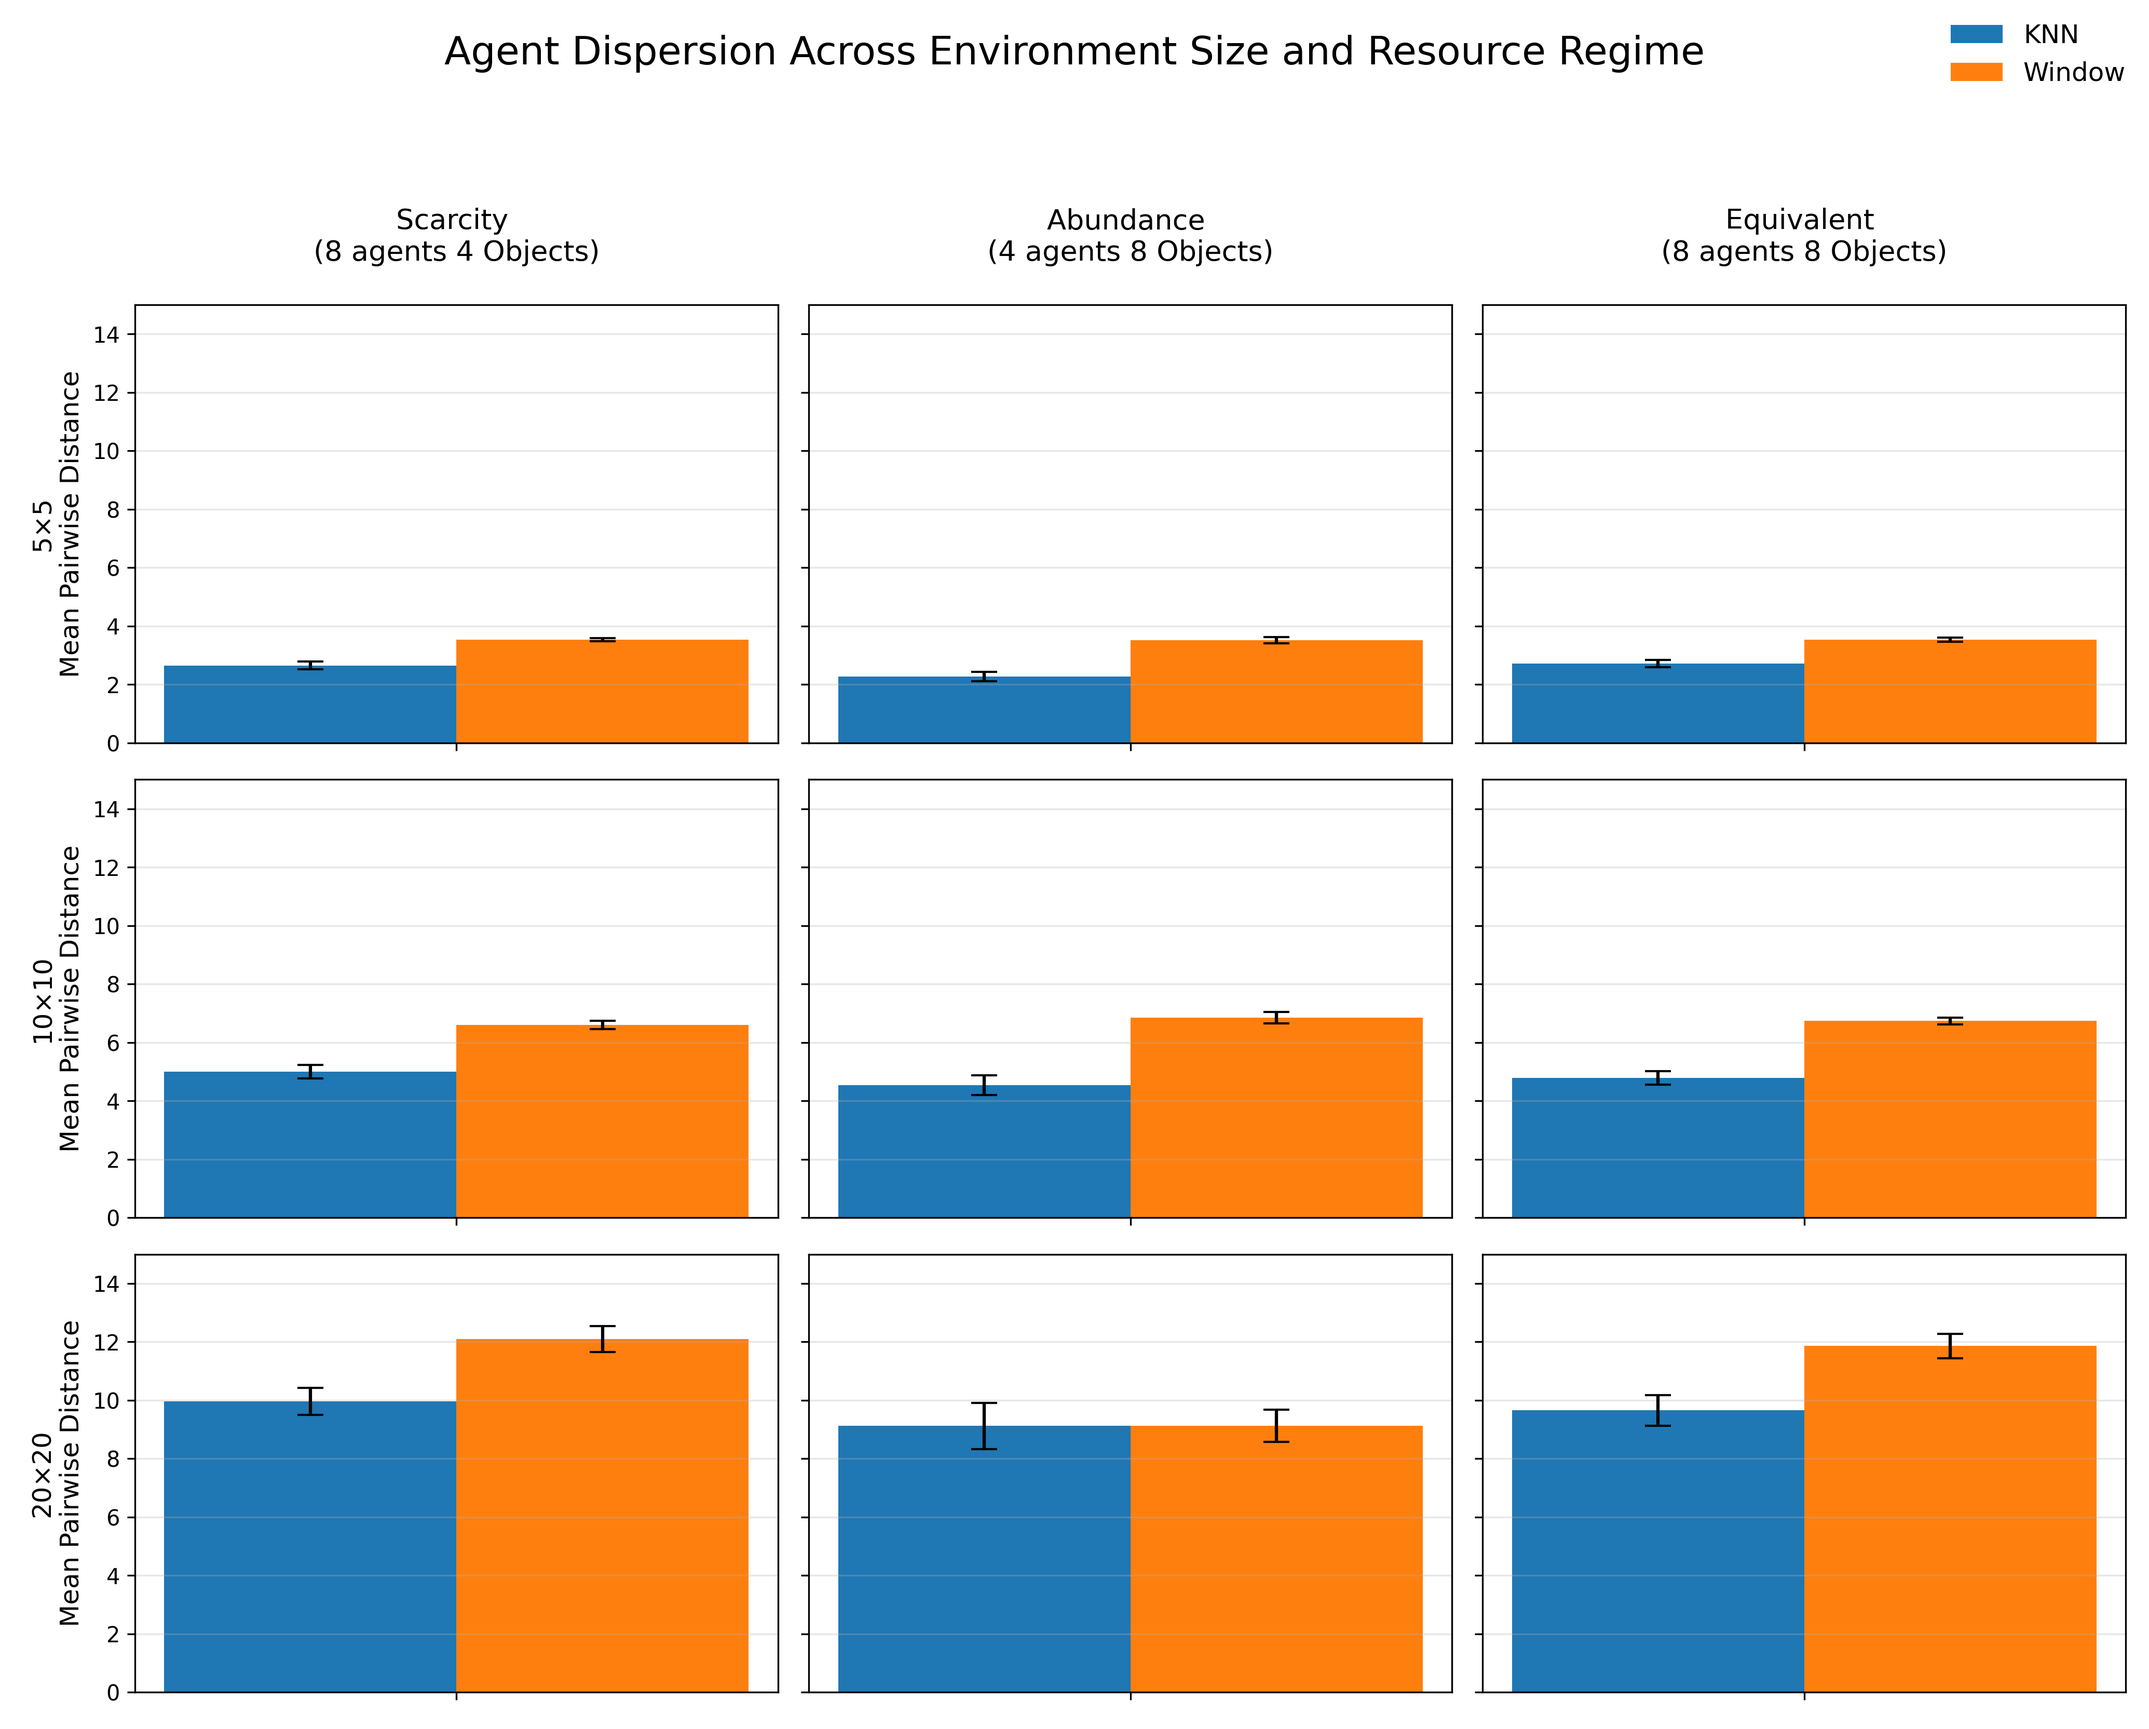
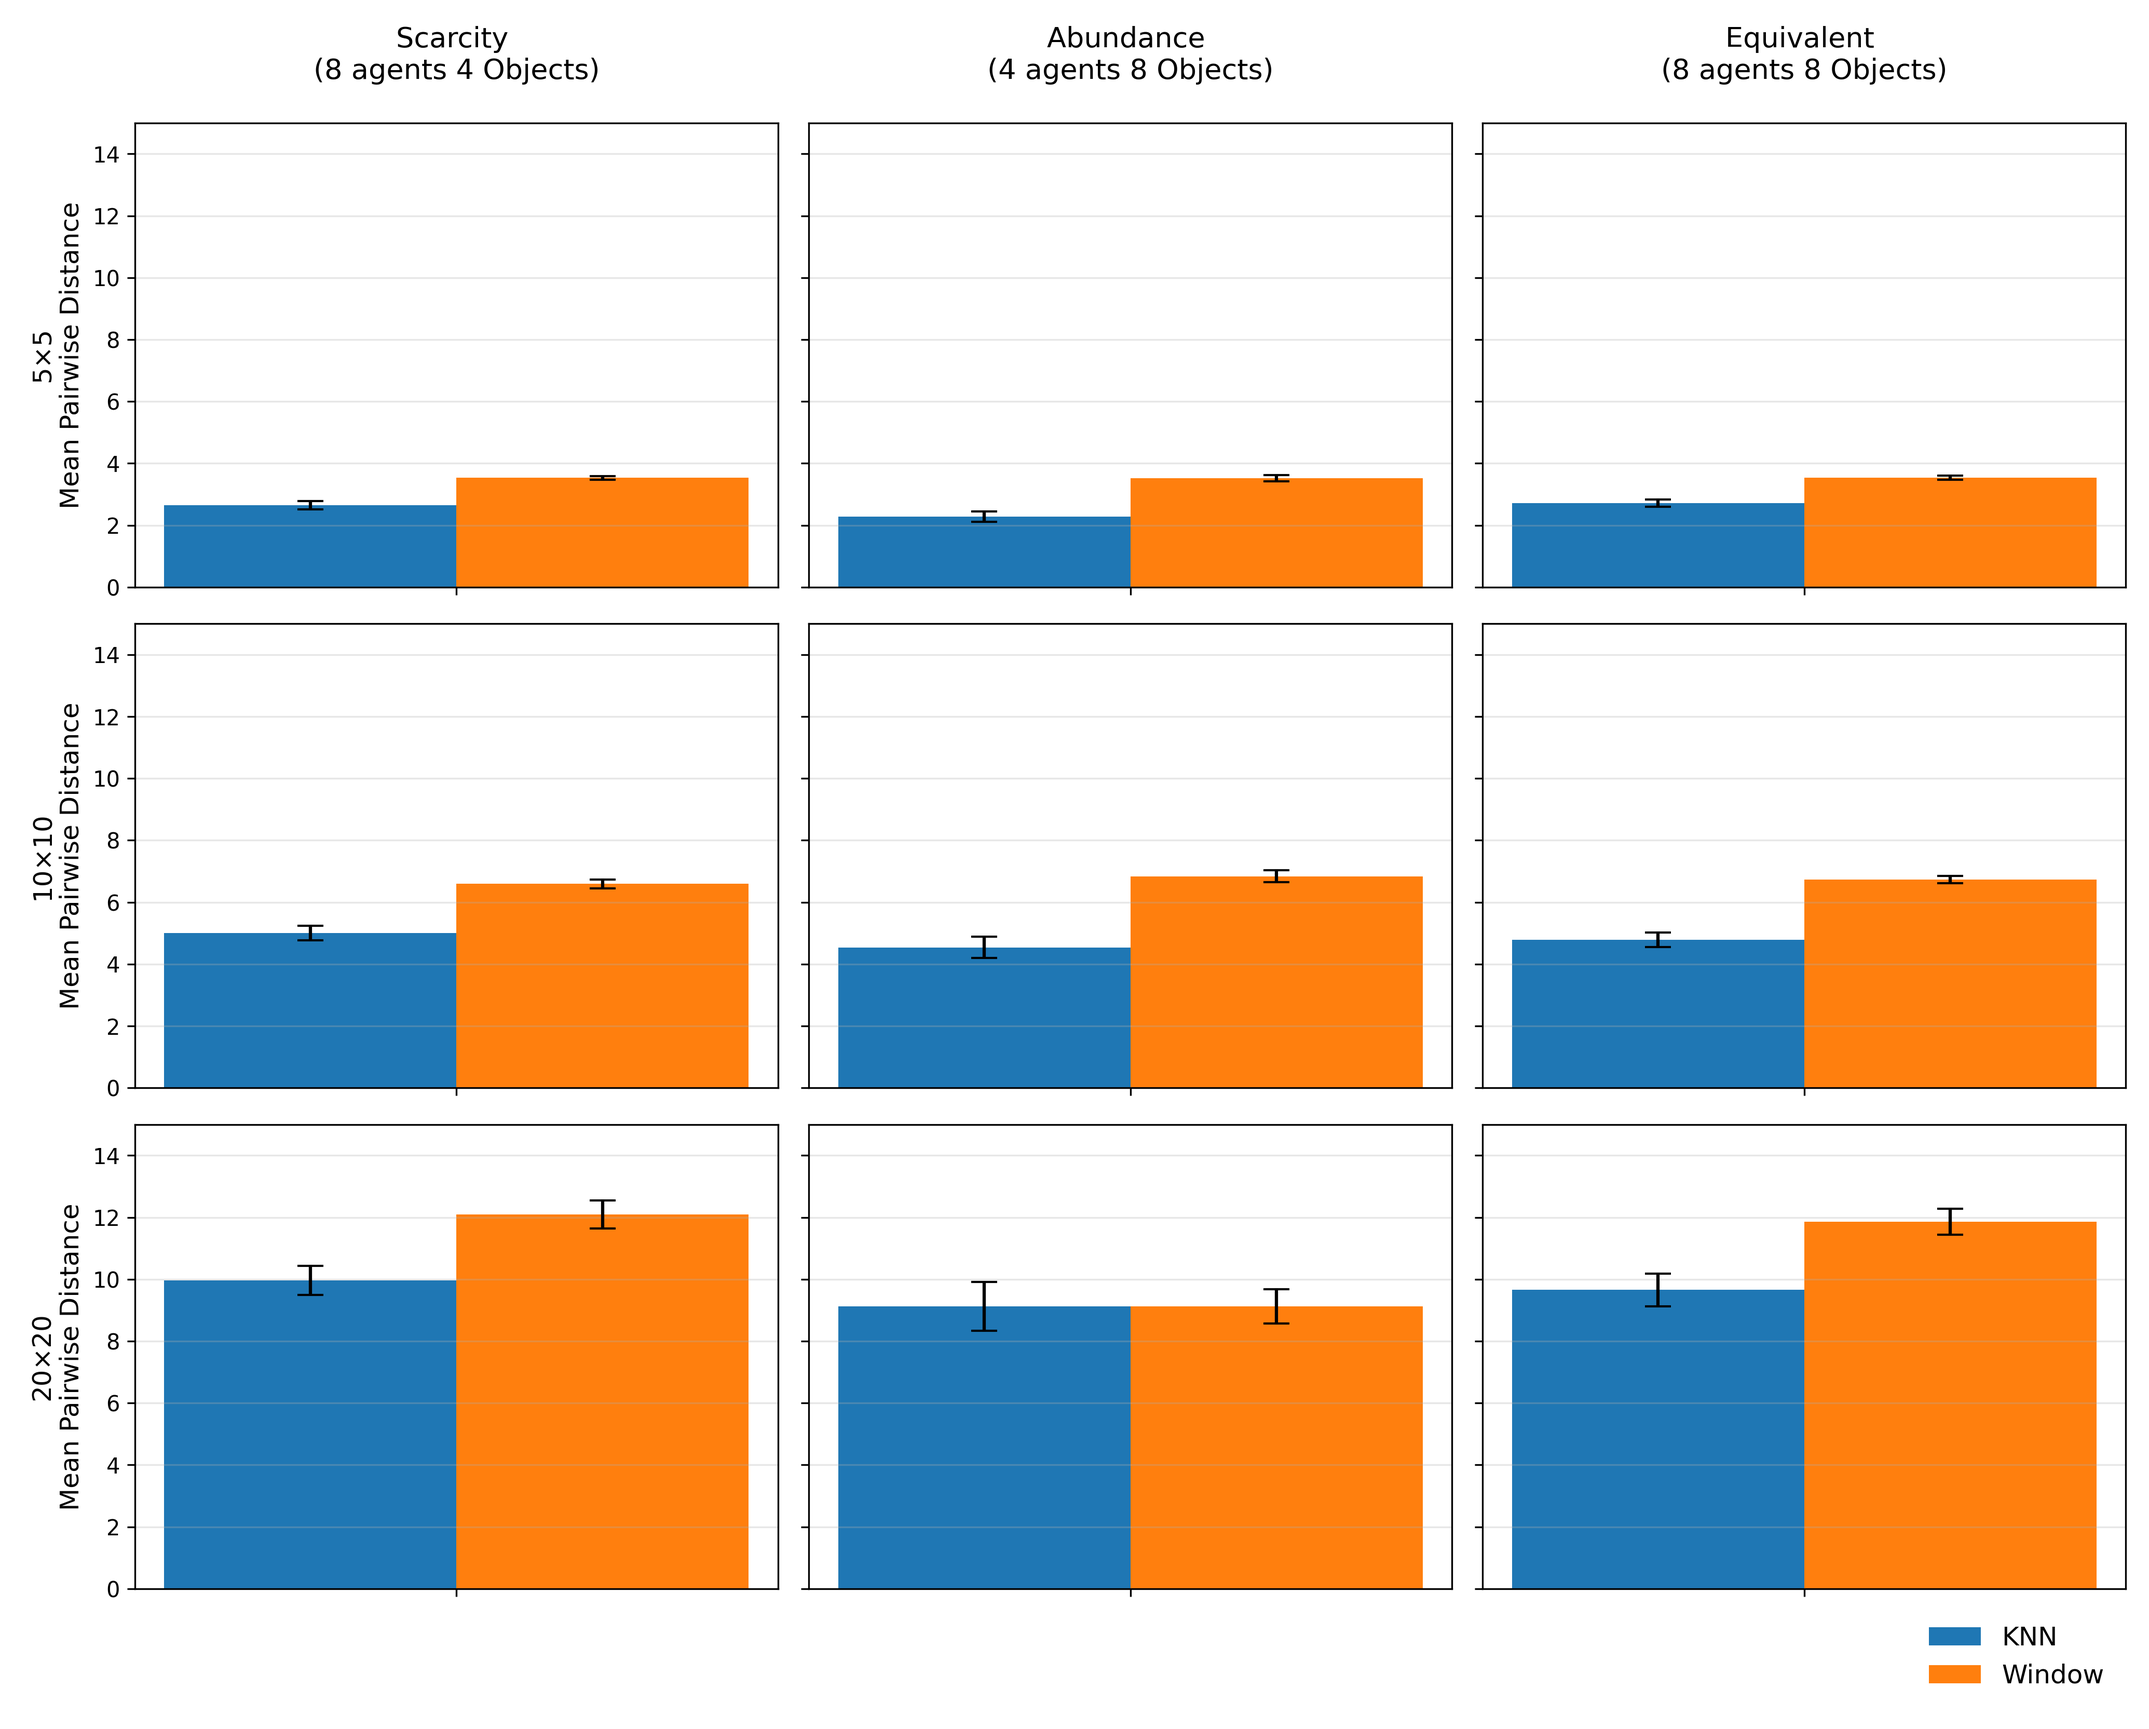
added fixed plots with no header

diff --git a/test.py b/test.py
@@ -177,15 +177,16 @@ def plot_factor_grid(
             ax.set_ylim(*ylim)
             ax.grid(axis="y", alpha=0.3)
 
-    fig.suptitle(title, fontsize=18, y=0.98)
+    #fig.suptitle(title, fontsize=18, y=0.98)
 
     fig.legend(
-        loc="upper right",
+        loc="lower right",
+        bbox_to_anchor=(0.99, 0.01),
         frameon=False,
         fontsize=12
     )
 
-    plt.tight_layout(rect=[0, 0, 1, 0.93])
+    plt.tight_layout(rect=[0, 0.06, 1, 1])
     plt.savefig(f"plots/{filename}.png", dpi=DPI)
     plt.close()
 
@@ -247,110 +248,3 @@ plot_factor_grid(
 )
 
 print("\n✔ All paper-quality plots with 95% CI saved to ./plots/\n")
-
-def plot_per_grid_summary(
-    grid_size,
-    knn_df,
-    win_df
-):
-    regimes = list(REGIMES.keys())
-    cols = len(regimes)
-
-    def extract(metric_mean, metric_std):
-        K_mean, K_ci, W_mean, W_ci = [], [], [], []
-
-        for regime_name, (a, it) in REGIMES.items():
-            k_rows = knn_df[
-                (knn_df.grid == grid_size) &
-                (knn_df.agents == a) &
-                (knn_df.items == it)
-            ]
-
-            w_rows = win_df[
-                (win_df.grid == grid_size) &
-                (win_df.agents == a) &
-                (win_df.items == it)
-            ]
-
-            if len(k_rows) == 0:
-                raise ValueError(
-                    f"[KNN missing] grid={grid_size}, agents={a}, items={it}"
-                )
-            if len(w_rows) == 0:
-                raise ValueError(
-                    f"[WINDOW missing] grid={grid_size}, agents={a}, items={it}"
-                )
-
-            k = k_rows.iloc[0]
-            w = w_rows.iloc[0]
-
-            K_mean.append(k[metric_mean])
-            W_mean.append(w[metric_mean])
-
-            K_ci.append(ci_from_std(k[metric_std]))
-            W_ci.append(ci_from_std(w[metric_std]))
-
-        return np.array(K_mean), np.array(K_ci), np.array(W_mean), np.array(W_ci)
-
-    # ---- Extract metrics ----
-    Kc, Kc_ci, Wc, Wc_ci = extract("completion_mean", "completion_std")
-    Kt, Kt_ci, Wt, Wt_ci = extract("timesteps_mean", "timesteps_std")
-    Km, Km_ci, Wm, Wm_ci = extract("mpd_mean", "mpd_std")
-
-    # ---- Plot ----
-    fig, axes = plt.subplots(3, 1, figsize=(8, 10), sharex=True)
-
-    bar_w = 0.30
-    x = np.arange(cols)
-    offset = bar_w / 2
-
-    def annotate(ax, xpos, val, err, ylim):
-        pad = 0.02 * (ylim[1] - ylim[0])
-        label = f"{val:.2f}" if ylim[1] <= 1.1 else f"{val:.1f}"
-        ax.text(xpos, val + err + pad, label, ha="center", fontsize=10)
-
-    plots = [
-        (axes[0], Kc, Kc_ci, Wc, Wc_ci, "Completion Rate", (0, 1.05)),
-        (axes[1], Kt, Kt_ci, Wt, Wt_ci, "Mean Timesteps", (0, MAX_STEPS)),
-        (axes[2], Km, Km_ci, Wm, Wm_ci, "Mean Pairwise Distance", (0, 15)),
-    ]
-
-    for ax, K_m, K_ci_m, W_m, W_ci_m, ylabel, ylim in plots:
-        ax.bar(x - offset, K_m, bar_w, yerr=K_ci_m, capsize=5, label="KNN")
-        ax.bar(x + offset, W_m, bar_w, yerr=W_ci_m, capsize=5, label="Window")
-
-        for i in range(cols):
-            annotate(ax, x[i] - offset, K_m[i], K_ci_m[i], ylim)
-            annotate(ax, x[i] + offset, W_m[i], W_ci_m[i], ylim)
-
-        ax.set_ylabel(ylabel)
-        ax.set_ylim(*ylim)
-        ax.grid(axis="y", alpha=0.3)
-
-    axes[-1].set_xticks(x)
-    axes[-1].set_xticklabels(regimes, fontsize=11)
-
-    fig.suptitle(
-        f"Performance by Resource Regime ({grid_size}×{grid_size})",
-        fontsize=18,
-        y=0.98
-    )
-
-    fig.legend(
-        loc="upper right",
-        frameon=False,
-        fontsize=12
-    )
-
-    plt.tight_layout(rect=[0, 0, 1, 0.94])
-    plt.savefig(f"plots/paper_grid_{grid_size}_summary.png", dpi=DPI)
-    plt.close()
-
-
-for g in ENV_SIZES:
-    plot_per_grid_summary(
-        grid_size=g,
-        knn_df=knn_res,
-        win_df=win_res
-    )
-    print(f"✔ Summary plot for {g}×{g} saved to ./plots/")
